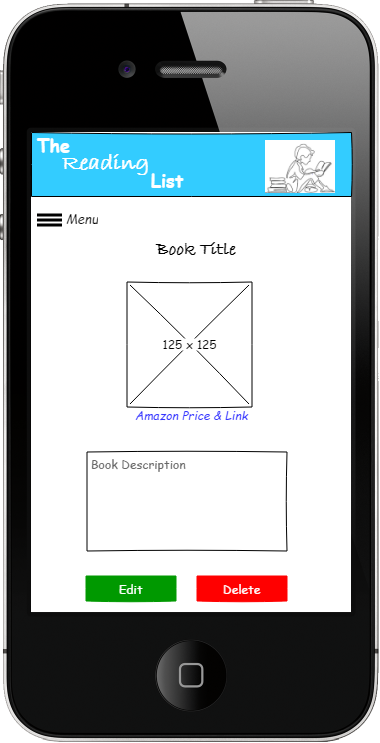
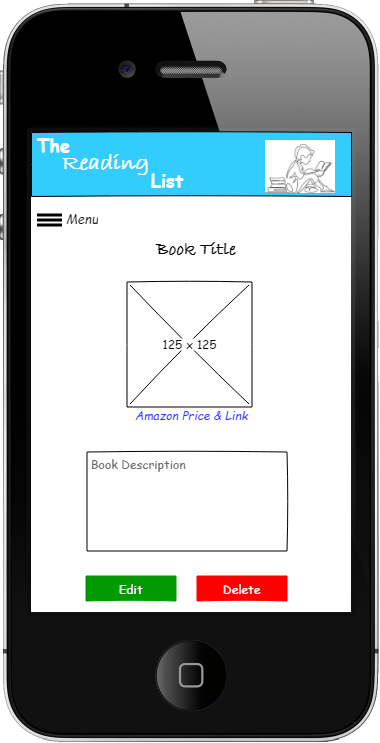
added link mockups to readme and old version mockups replaced by latest version

diff --git a/README.md b/README.md
@@ -15,8 +15,9 @@ The user can see what other books are added by other users and use the link to b
 Before going into the user stories it should be noted that a future feature should be to connect to an excisting database of books.
 That way the user doesn't have to fill in the books manually. But for now it is a good way to implement the C (create) from the CRUD principle.
 
-The mockups are in the folder static/mockups and presented as png files.
-Deviation was mostly additions like the change password and making two pages for the editbook page, one with and one without edit/delete buttons
+*Mockups*
+The mockups are in a git folder (https://github.com/rory81/the_reading_list/tree/master/static/mockups) and presented as png files.
+Deviation was mostly additions like the change/hash password and making two pages for the editbook page, one with and one without edit/delete buttons, or resizing of the books for aesthetic purposes.
 
 ### **Home**
 They say don't judge a book by its cover, but there are readers that pick a book based on how pretty, weird or scary the cover looks.
